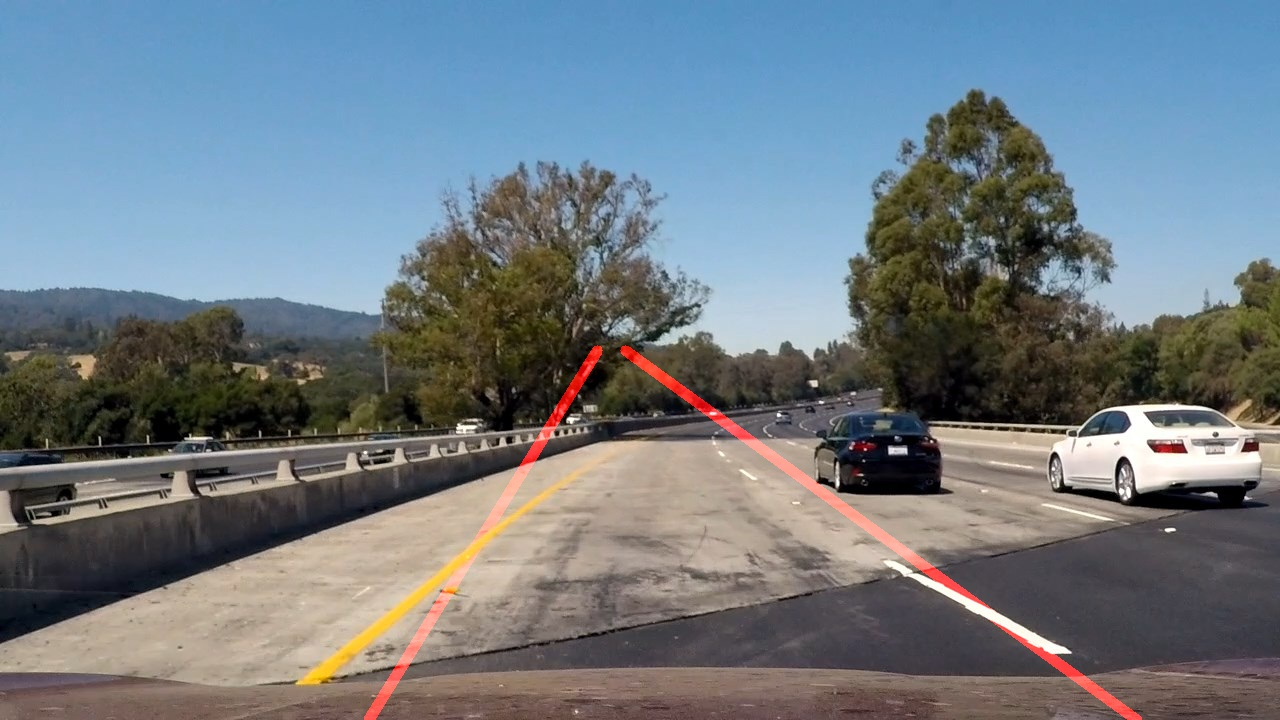
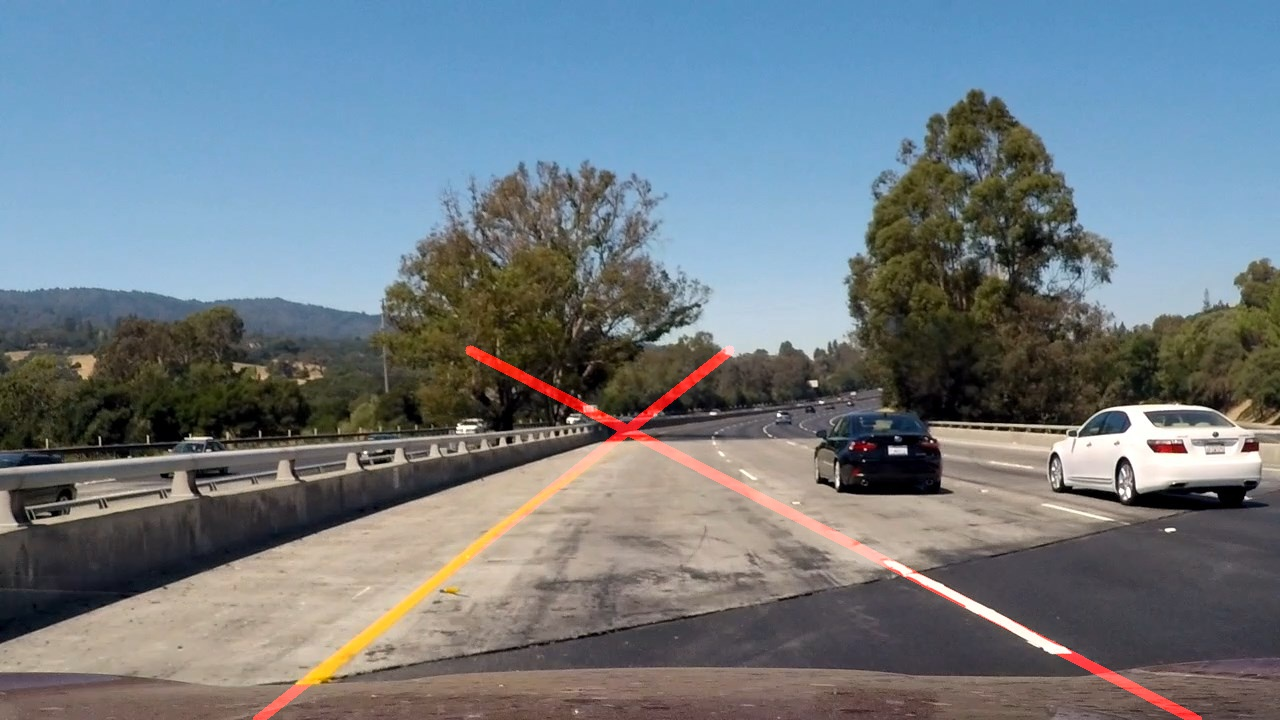
Lane detect algorithm(images) challenge ver. complete

diff --git a/Lane_detect_images.py b/Lane_detect_images.py
@@ -59,9 +59,9 @@ def roi(img, vertices):
     fill color    
     """
     cv2.fillPoly(mask, vertices, ignore_mask_color)
-#    plt.figure()
-#    plt.imshow(image)
-#    plt.contour(mask,colors='b',linestyles='dashed')
+    plt.figure()
+    plt.imshow(image)
+    plt.contour(mask,colors='b',linestyles='dashed')
     
     """returning the image only where mask pixels are nonzero"""
     masked_image = cv2.bitwise_and(img, mask)
@@ -149,7 +149,7 @@ def drawLines(img,leftCurve,rightCurve,verLim):
     y1_right = imshape[0]
     x1_right = int(y1_right*rightCurve[0]+rightCurve[1])
     
-    y2_right = 350
+    y2_right = verLim
     x2_right = int(y2_right*rightCurve[0]+rightCurve[1])
     
     fit_line_image = np.copy(img)*0
@@ -167,7 +167,8 @@ def drawLines(img,leftCurve,rightCurve,verLim):
 
 ###############################################################################
 
-imagesFolder = "test_images"
+#imagesFolder = "test_images"
+imagesFolder = "images_challenge"
 outputFolder = "images_output"
 #init(imagesFolder)  # Change dir to to imagesFolder
 #
@@ -180,9 +181,14 @@ for file in os.listdir(imagesFolder):
         #Filter white color  in BGR order!!!
         lowerWhite = np.array([195,195,195])
         upperWhite = np.array([255,255,255])
-        
- 
-        lowerYellow = np.array([80, 190, 215])
+  
+#        lowerYellow = np.array([80, 190, 215])
+#        upperYellow = np.array([150, 255, 255]) 
+
+        """Challenge colors"""
+#        lowerYellow = np.array([30, 180, 215])
+#        upperYellow = np.array([150, 255, 255]) 
+        lowerYellow = np.array([15, 170, 215])
         upperYellow = np.array([150, 255, 255]) 
         
         imageWhites = colorFilter(image,lowerWhite,upperWhite)
@@ -196,22 +202,26 @@ for file in os.listdir(imagesFolder):
     #    image = mpimg.imread(file)
     #image = mpimg.imread('solidYellowCurve.jpg')
     
+        """ Masking Region of interest"""
         imshape = image.shape
-        gray = cv2.cvtColor(image,cv2.COLOR_RGB2GRAY)
+        #        vertices = np.array([[(0,imshape[0]),(450, 300), (500,300), (imshape[1],imshape[0])]], dtype=np.int32)
+        """ Challenge"""
+        vertices = np.array([[(0,imshape[0]),(540, 400), (740,400), (imshape[1],imshape[0])]], dtype=np.int32)
+        maskedImg = roi(imageFiltered,vertices)
+    
+#        gray = cv2.cvtColor(image,cv2.COLOR_RGB2GRAY)
             
         """ Define a kernel size and apply Gaussian smoothing"""
-        blur_gray = gaussianBlur(gray,kernel_size=5)
+        blur_gray = gaussianBlur(maskedImg,kernel_size=5)
         
         # Define our parameters for Canny and apply
         low_threshold = 50
         high_threshold = 200
         edges = canny(blur_gray, low_threshold, high_threshold)
-        plt.figure()
-        plt.imshow(edges)
+#        plt.figure()
+#        plt.imshow(edges)
         
-        """ Masking Region of interest"""
-        vertices = np.array([[(0,imshape[0]),(450, 300), (500,300), (imshape[1],imshape[0])]], dtype=np.int32)
-        masked_edges = roi(edges,vertices)
+
         
         """
         Define the Hough transform parameters
@@ -225,13 +235,16 @@ for file in os.listdir(imagesFolder):
         line_image = np.copy(image)*0 # creating a blank to draw lines on
         
         """ Run Hough on edge detected image"""
-        houghLines = hough_lines(masked_edges, rho, theta, threshold, min_line_length, max_line_gap)
+        houghLines = hough_lines(edges, rho, theta, threshold, min_line_length, max_line_gap)
         #print(houghLines)
         
         """ Identified the curve equation of each, left and right lanes"""
         leftCurve,rightCurve = Lane_lines_fit(houghLines,poly_degree=1)
         
-        verLim = 350 # Vertical limit to draw the identified lane's curves
+#        verLim = 350 # Vertical limit to draw the identified lane's curves
+        """Challenge verLim"""
+        verLim = 500
+        
         output_img = drawLines(image,leftCurve,rightCurve,verLim)
         
         
